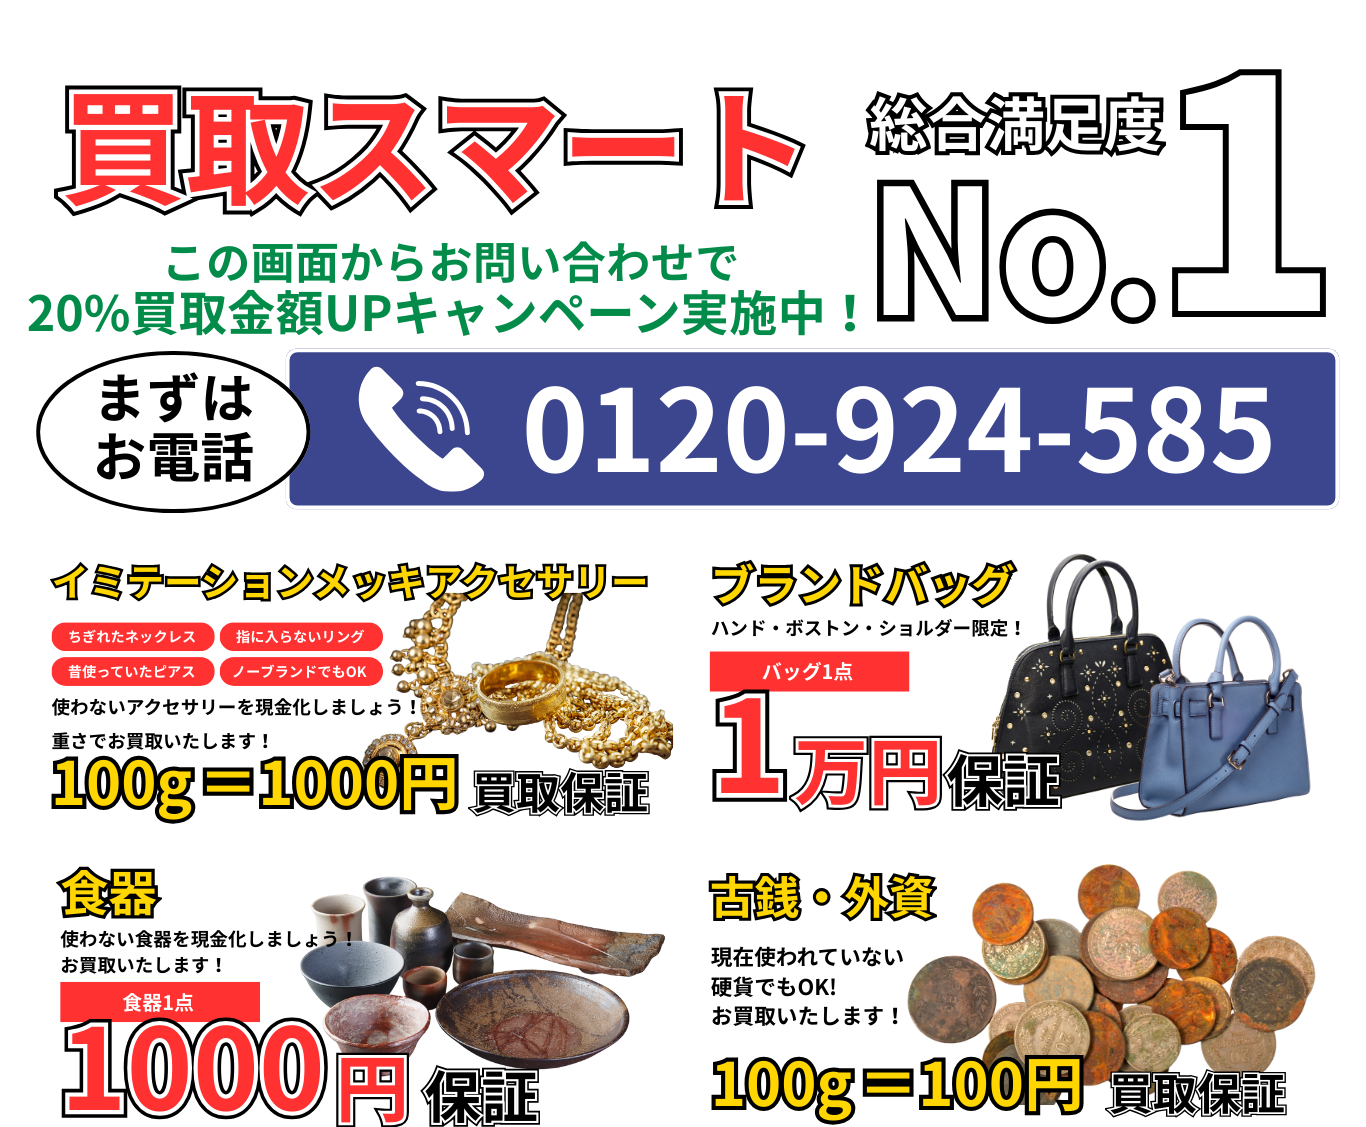
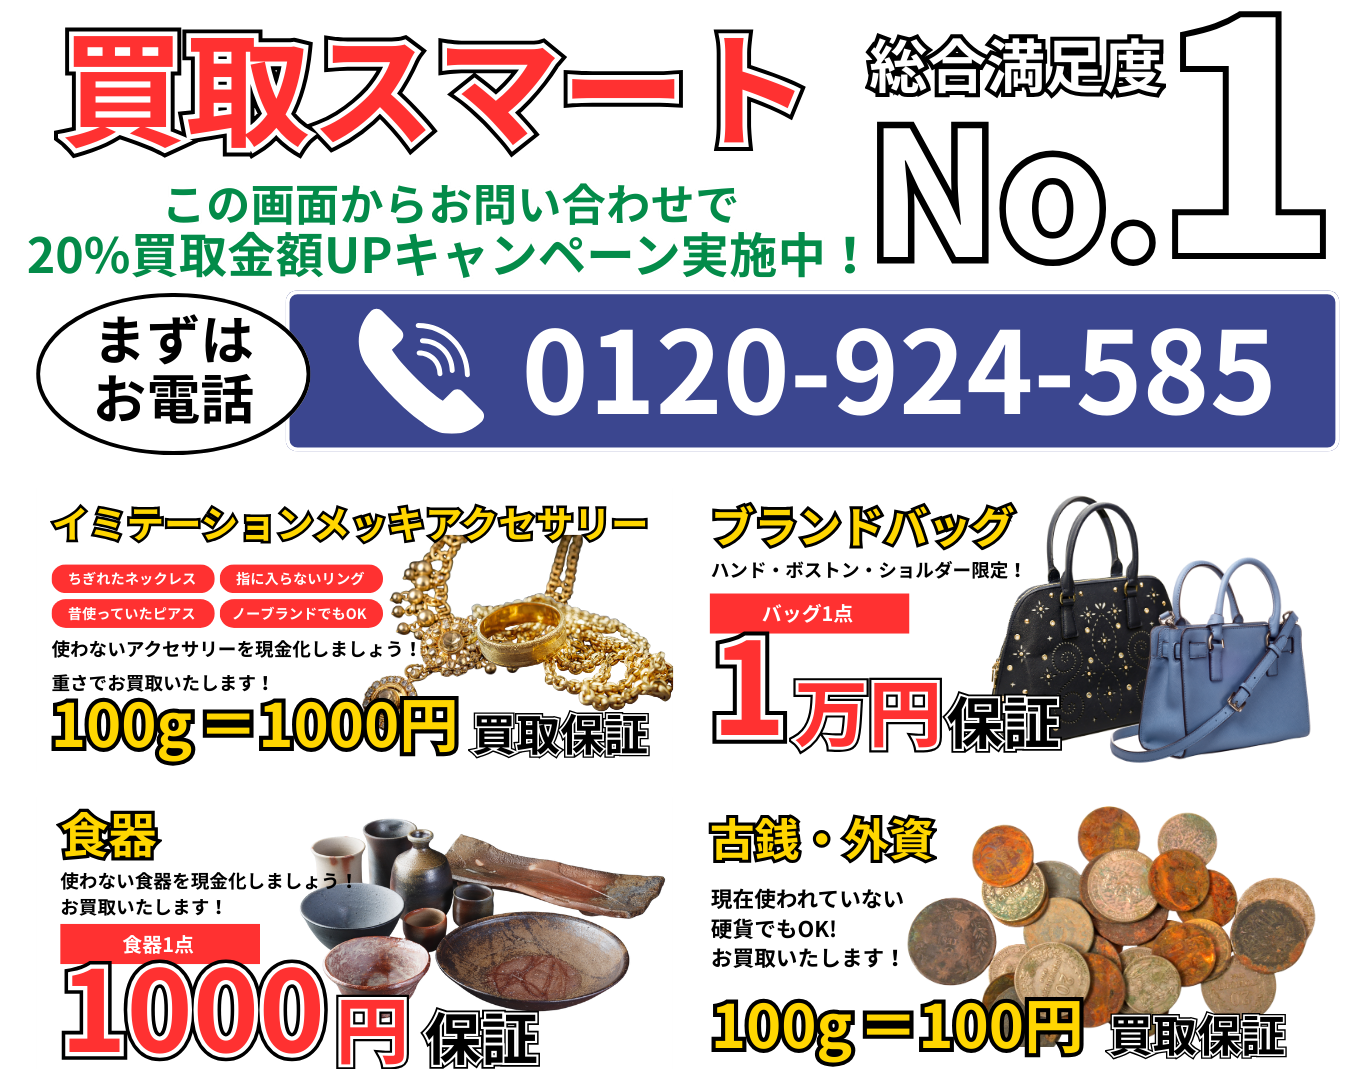
３４０００件実績デザイン修正

diff --git a/index.html b/index.html
@@ -131,6 +131,10 @@
 			<img src="img/heroTop_phone.png" alt="説明テキスト" class="heropage-image">
 		</div>
 	</section>
+
+	<section class="achivement">
+		<img src="img/AchivementNums.png" alt="CTA画像" class="achivementNums_image">
+	</section>
 	
 	<section class="item-cta">
 		<img src="img/item_cta.png" alt="CTA画像" class="item-cta__image">

diff --git a/css/about.css b/css/about.css
@@ -21,7 +21,7 @@
 .page-image-wrapper {
 	display: flex;
 	justify-content: center;
-	margin-top: 1.5rem;
+	margin-top: 3rem;
 }
 
 .page-image {
@@ -44,8 +44,9 @@
 	display: flex;
 	align-items: center;
 	gap: 1.5rem;
-	margin: 0.5rem 0;
+	margin: 0;
 	padding: 1rem 3rem;
+	padding-top: 0rem;
 	max-width: 900px;
 	margin-left: auto;
 	margin-right: auto;

diff --git a/css/cta.css b/css/cta.css
@@ -69,6 +69,20 @@
 
 
 
+.achivement {
+	background-color: #fcaf10;
+	display: flex;
+	justify-content: center;
+	align-items: center;
+	/* 上下に余白 */
+}
+
+.achivementNums_image {
+	max-width: 1300px;
+	width: 95%;
+	height: auto;
+	display: block;
+}
 
 .item-cta {
 	background-color: #fcaf10;

diff --git a/css/page3.css b/css/page3.css
@@ -8,7 +8,6 @@
 	justify-content: center;
 	align-items: center;
 	background-color: white;
-	margin-top: 30px;
 }
 
 .jisseki-image{
